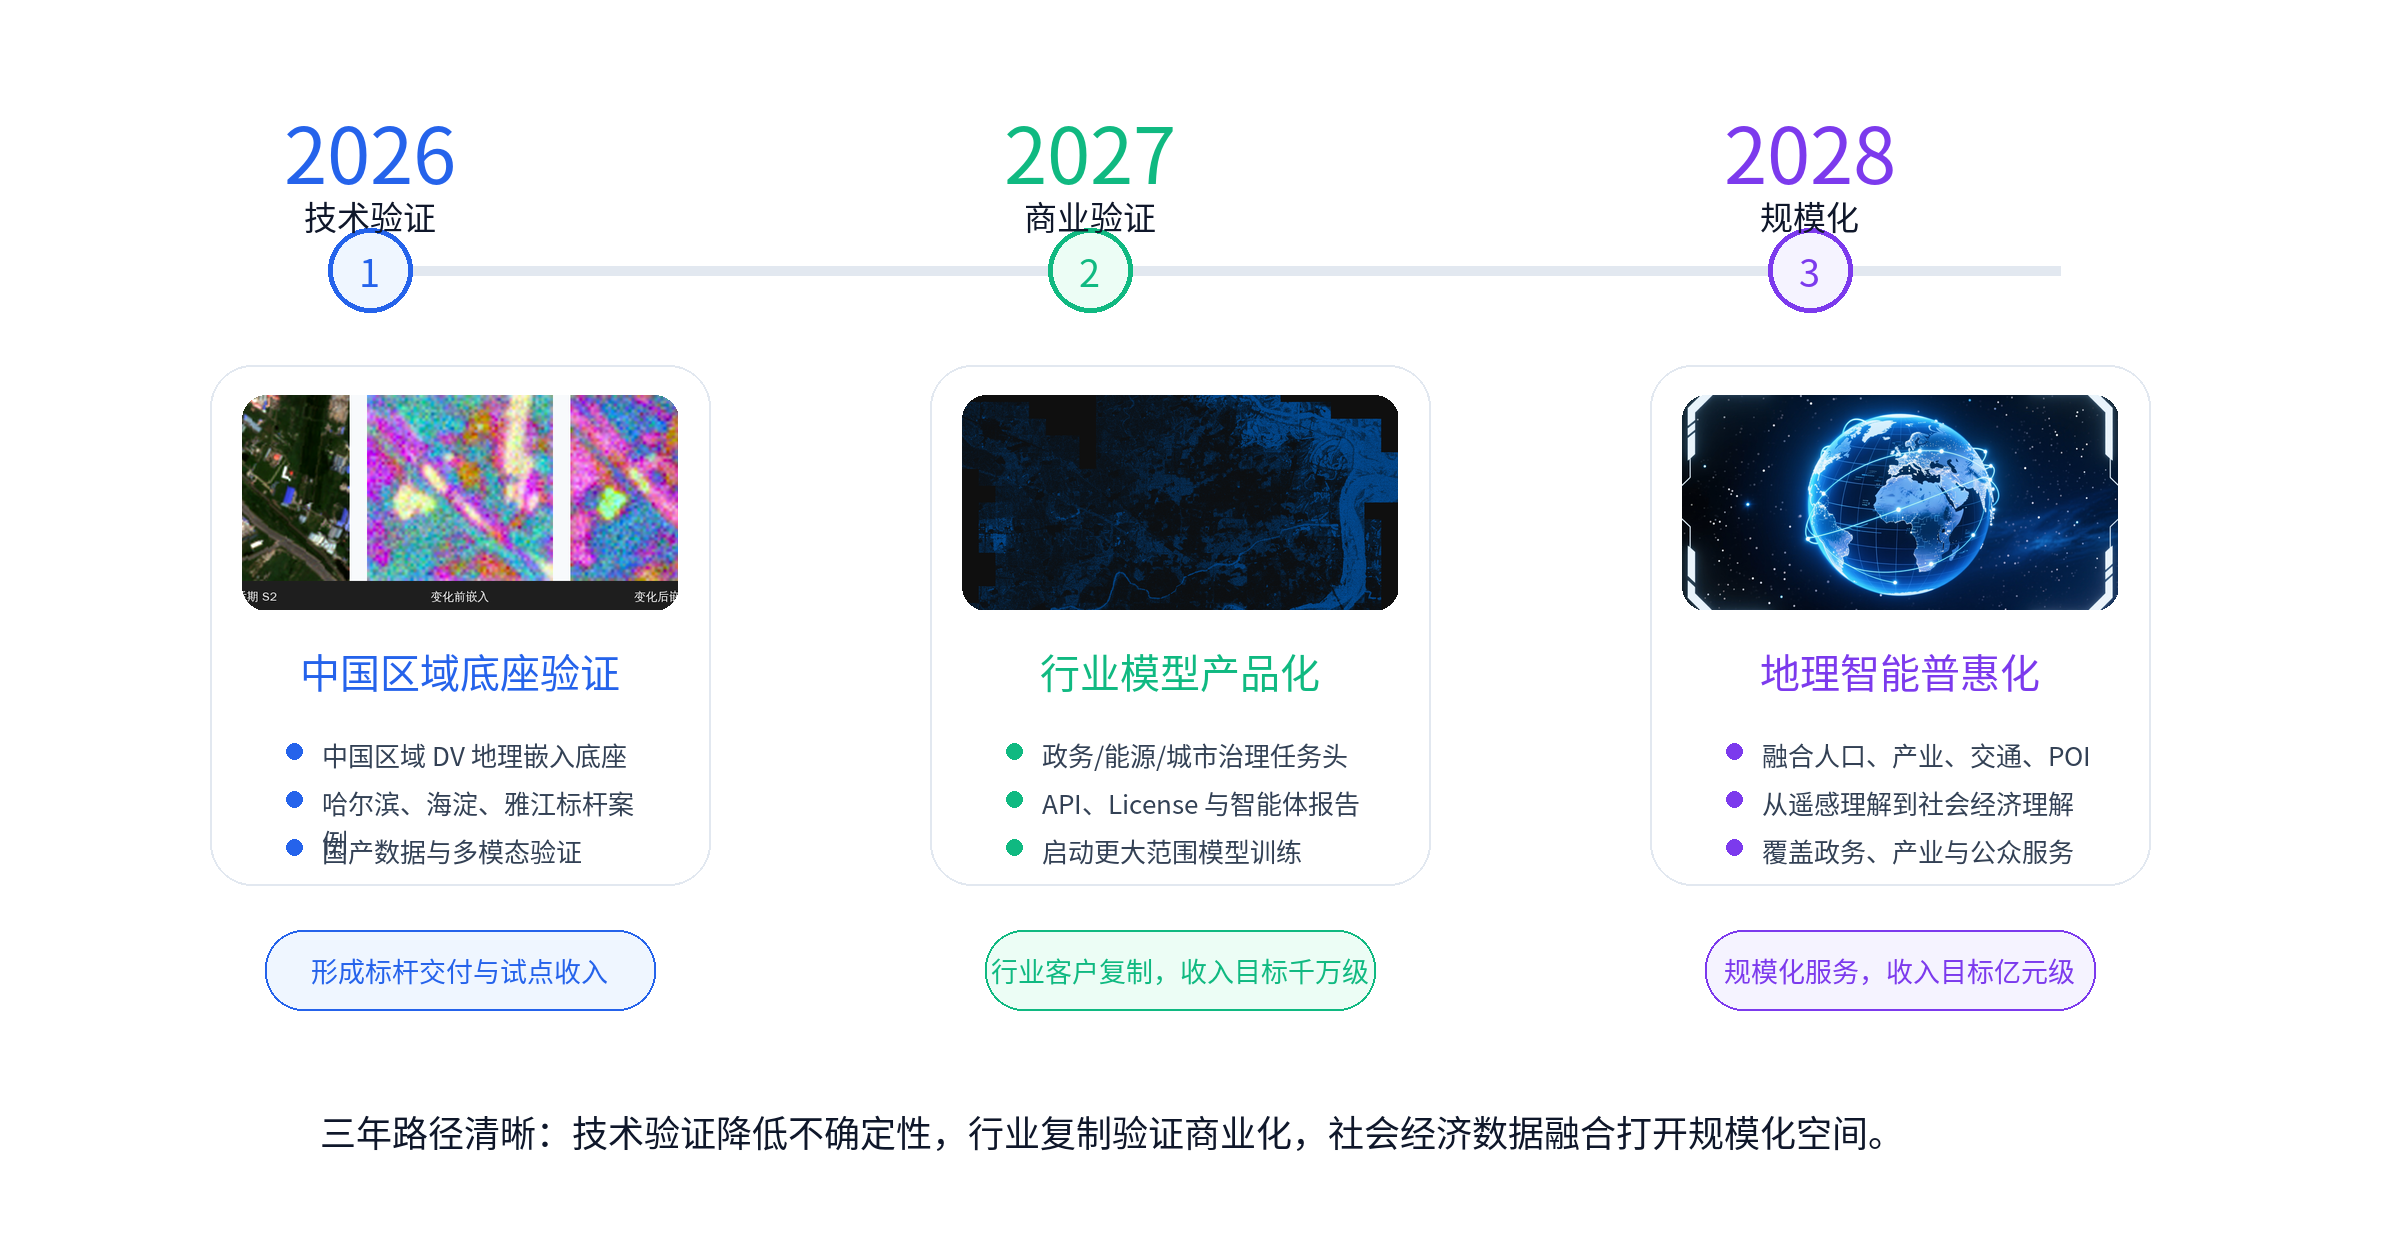
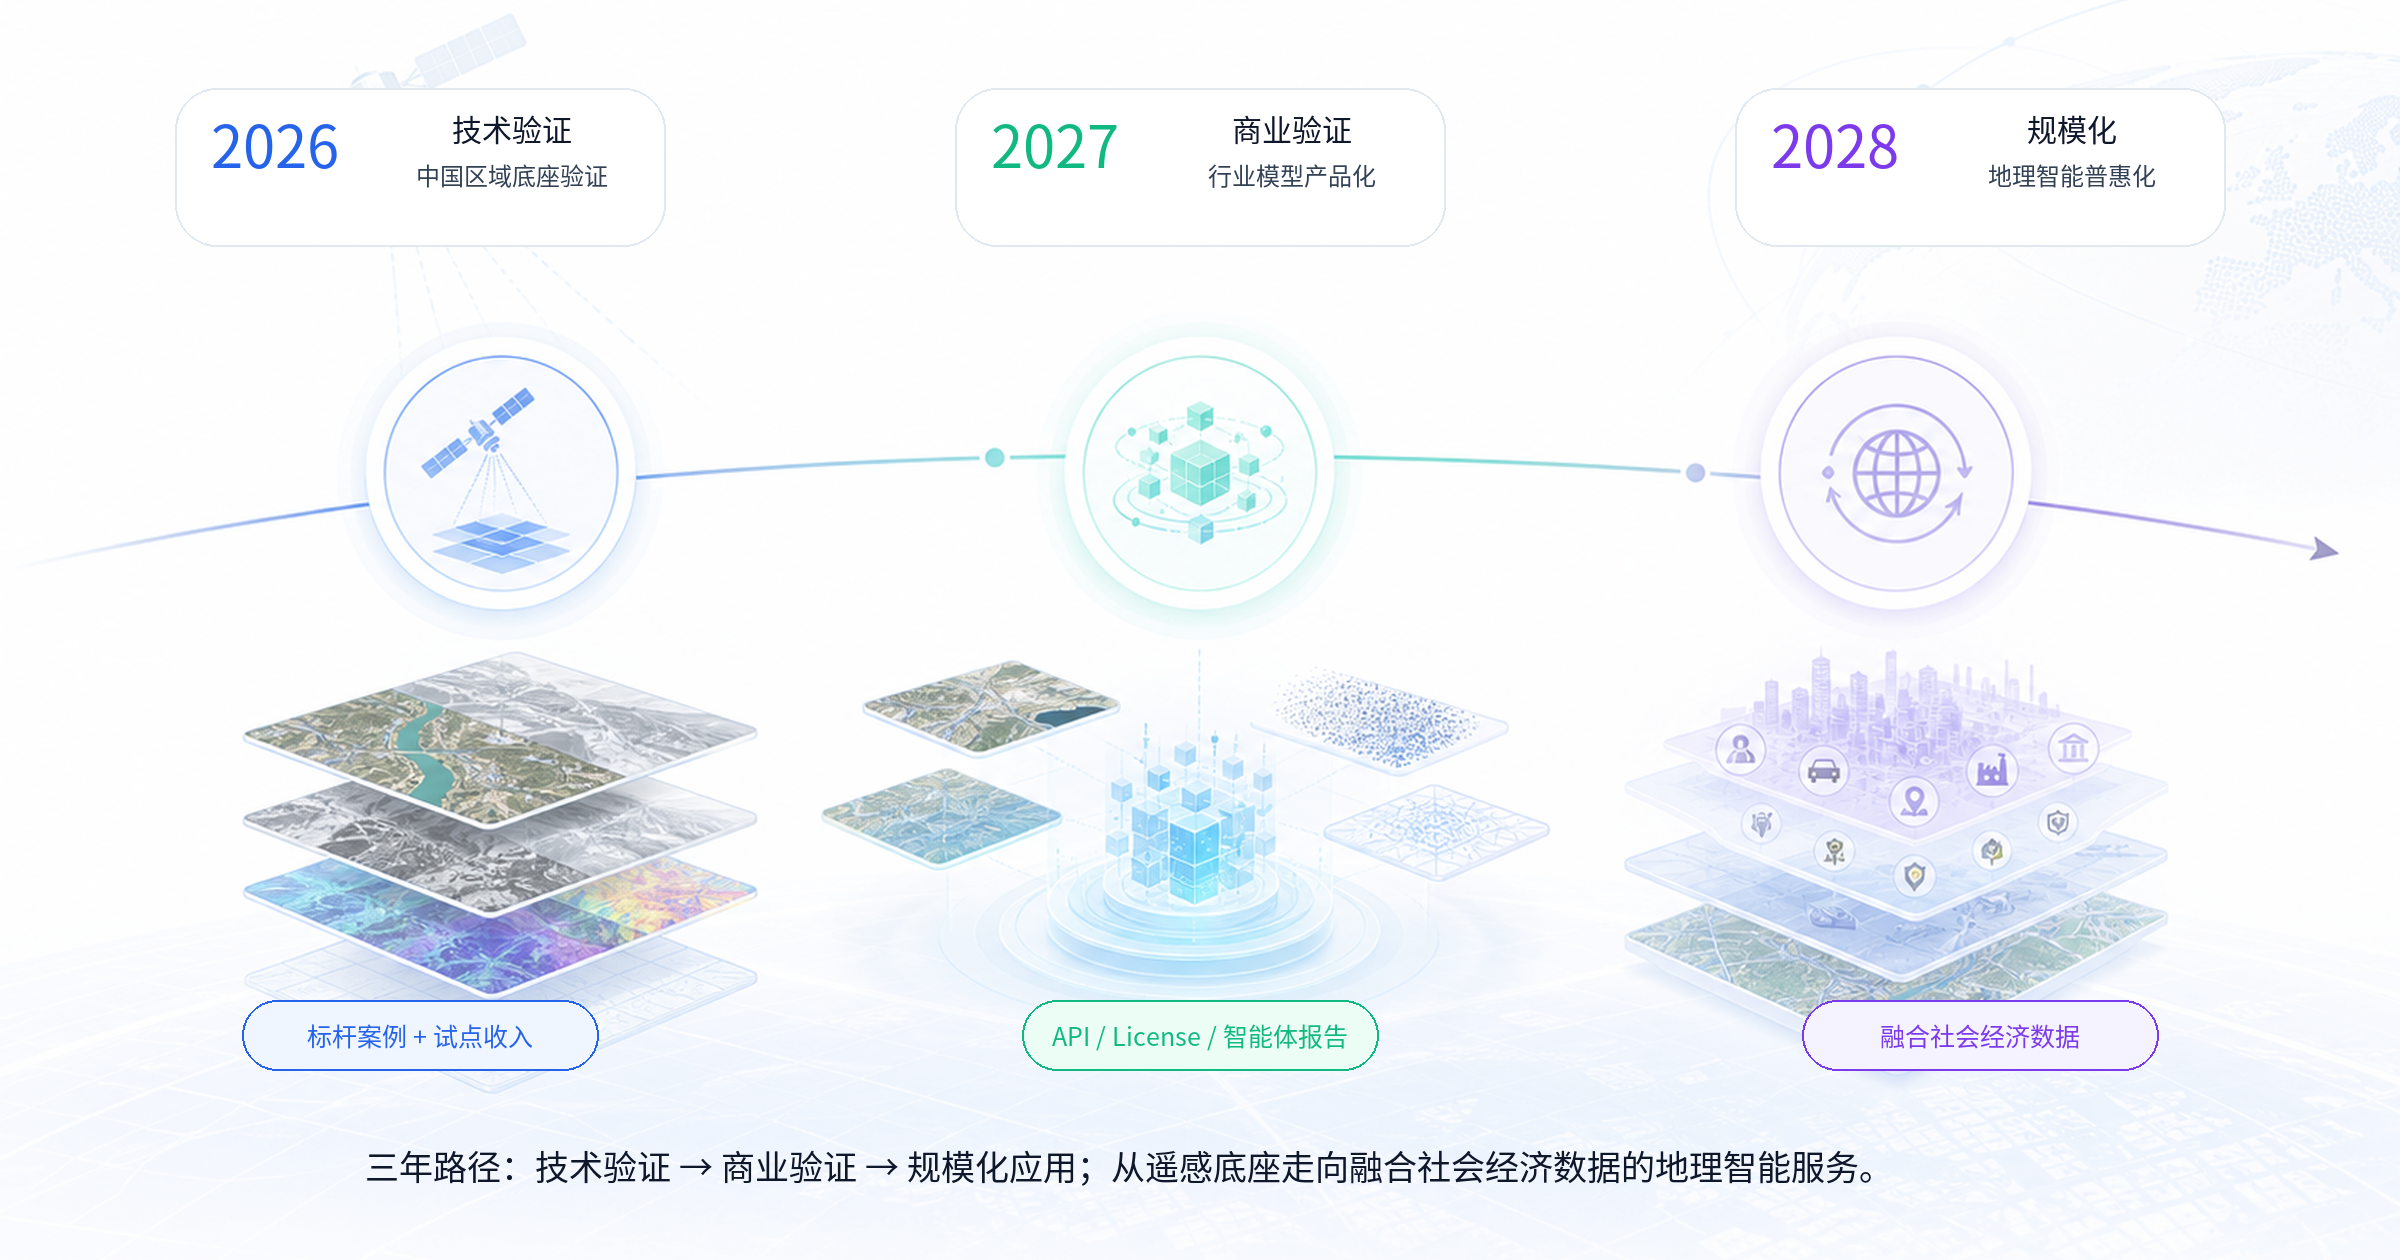
docs: use imagegen visual for roadmap slide

diff --git a/docs/bp_deck/scripts/create_architecture_chapter_deck.py b/docs/bp_deck/scripts/create_architecture_chapter_deck.py
@@ -24,6 +24,7 @@ GENERATED = ASSETS / "generated"
 OLD = ASSETS / "old_bp_media"
 OUT = ROOT / "outputs" / "玄女科技BP_架构原理章节_v0.4.pptx"
 FONT_PATH = Path("/root/workspace/xuannv/fonts/NotoSansCJKsc-Regular.otf")
+ROADMAP_IMAGEGEN = GENERATED / "arch_roadmap_imagegen_base.png"
 
 
 W, H = 2400, 1260
@@ -274,65 +275,30 @@ def make_model_architecture() -> Path:
 
 
 def make_scale_path() -> Path:
-    im = base_canvas()
+    if ROADMAP_IMAGEGEN.exists():
+        im = ImageOps.fit(Image.open(ROADMAP_IMAGEGEN).convert("RGB"), (W, H), method=Image.Resampling.LANCZOS)
+        # Keep the image airy like the cover page, but add a very light veil so
+        # the stage labels stay legible.
+        veil = Image.new("RGBA", (W, H), (255, 255, 255, 72))
+        im = Image.alpha_composite(im.convert("RGBA"), veil).convert("RGB")
+    else:
+        im = base_canvas()
     d = ImageDraw.Draw(im)
 
-    # A light timeline, closer to investor BP roadmap pages than a dense table.
-    d.line((340, 270, 2060, 270), fill=LINE, width=10)
     stages = [
-        {
-            "year": "2026",
-            "stage": "技术验证",
-            "headline": "中国区域底座验证",
-            "milestones": ["中国区域 DV 地理嵌入底座", "哈尔滨、海淀、雅江标杆案例", "国产数据与多模态验证"],
-            "result": "形成标杆交付与试点收入",
-            "color": BLUE,
-            "fill": PALE_BLUE,
-            "img": IMG["cloud"],
-        },
-        {
-            "year": "2027",
-            "stage": "商业验证",
-            "headline": "行业模型产品化",
-            "milestones": ["政务/能源/城市治理任务头", "API、License 与智能体报告", "启动更大范围模型训练"],
-            "result": "行业客户复制，收入目标千万级",
-            "color": GREEN,
-            "fill": MINT,
-            "img": IMG["semantic"],
-        },
-        {
-            "year": "2028",
-            "stage": "规模化",
-            "headline": "地理智能普惠化",
-            "milestones": ["融合人口、产业、交通、POI", "从遥感理解到社会经济理解", "覆盖政务、产业与公众服务"],
-            "result": "规模化服务，收入目标亿元级",
-            "color": PURPLE,
-            "fill": PALE_PURPLE,
-            "img": OLD / "image1.png",
-        },
+        ("2026", "技术验证", "中国区域底座验证", "标杆案例 + 试点收入", BLUE, PALE_BLUE, 420),
+        ("2027", "商业验证", "行业模型产品化", "API / License / 智能体报告", GREEN, MINT, 1200),
+        ("2028", "规模化", "地理智能普惠化", "融合社会经济数据", PURPLE, PALE_PURPLE, 1980),
     ]
+    for year, stage, head, result, color, fill, cx in stages:
+        rounded(d, (cx - 245, 88, cx + 245, 246), 42, WHITE, (226, 232, 240), 2)
+        d.text((cx - 145, 142), year, font=font(58), fill=color, anchor="mm")
+        d.text((cx + 92, 128), stage, font=font(30), fill=INK, anchor="mm")
+        d.text((cx + 92, 174), head, font=font(24), fill=BODY, anchor="mm")
+        rounded(d, (cx - 178, 1000, cx + 178, 1070), 35, fill, color, 2)
+        d.text((cx, 1035), result, font=font(25), fill=color, anchor="mm")
 
-    for i, item in enumerate(stages):
-        x = 210 + i * 720
-        color = item["color"]
-        fill = item["fill"]
-        circle(d, x + 160, 270, 42, fill, color, 5)
-        d.text((x + 160, 270), str(i + 1), font=font(38), fill=color, anchor="mm")
-        d.text((x + 160, 150), item["year"], font=font(78), fill=color, anchor="mm")
-        d.text((x + 160, 215), item["stage"], font=font(33), fill=INK, anchor="mm")
-
-        rounded(d, (x, 365, x + 500, 885), 42, WHITE, LINE, 2)
-        paste_fit(im, item["img"], (x + 32, 395, x + 468, 610), 24)
-        d.text((x + 250, 670), item["headline"], font=font(40), fill=color, anchor="mm")
-        y = 735
-        for m in item["milestones"]:
-            d.ellipse((x + 76, y + 8, x + 92, y + 24), fill=color)
-            draw_text(d, (x + 112, y), m, 26, BODY, width=330)
-            y += 48
-        rounded(d, (x + 55, 930, x + 445, 1010), 38, fill, color, 2)
-        d.text((x + 250, 970), item["result"], font=font(27), fill=color, anchor="mm")
-
-    draw_text(d, (320, 1105), "三年路径清晰：技术验证降低不确定性，行业复制验证商业化，社会经济数据融合打开规模化空间。", 36, INK, width=1850)
+    draw_text(d, (365, 1140), "三年路径：技术验证 → 商业验证 → 规模化应用；从遥感底座走向融合社会经济数据的地理智能服务。", 34, INK, width=1680)
     return save(im, "arch_scale_path_social_econ.png")
 
 